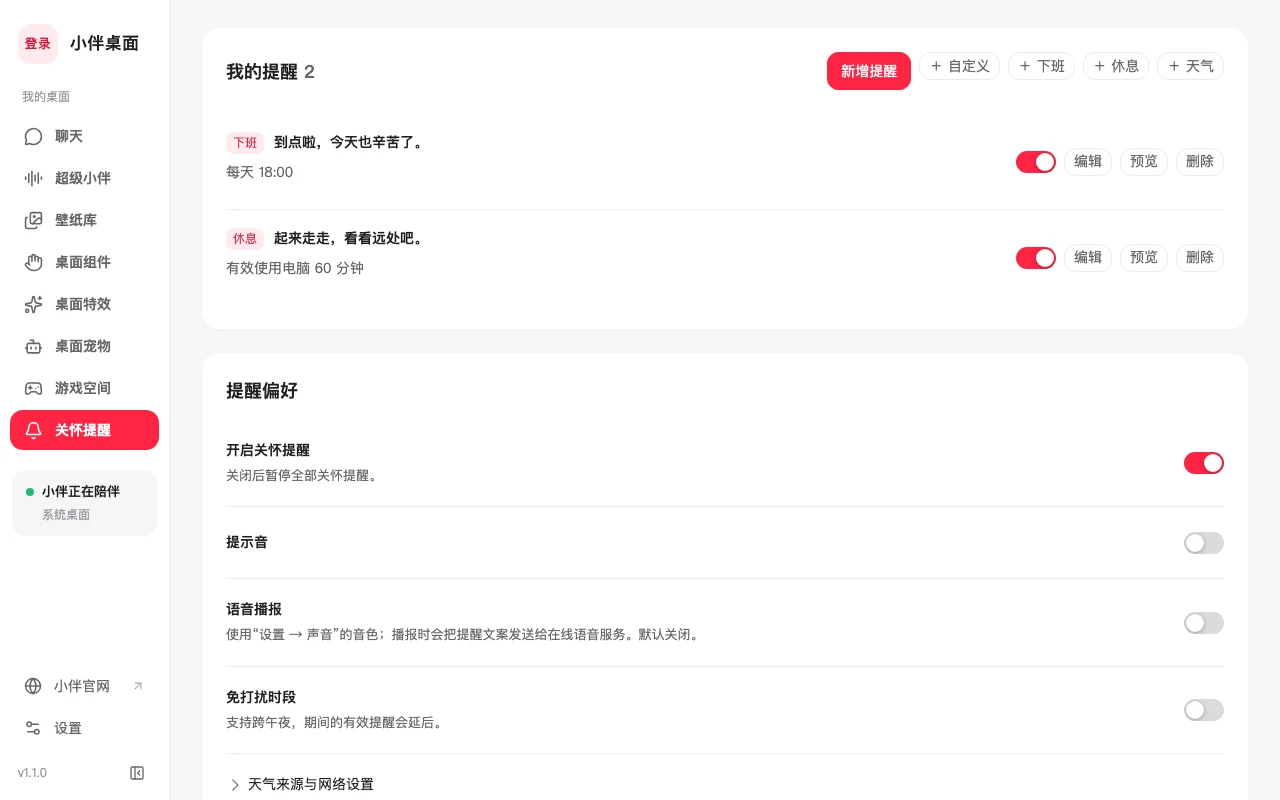
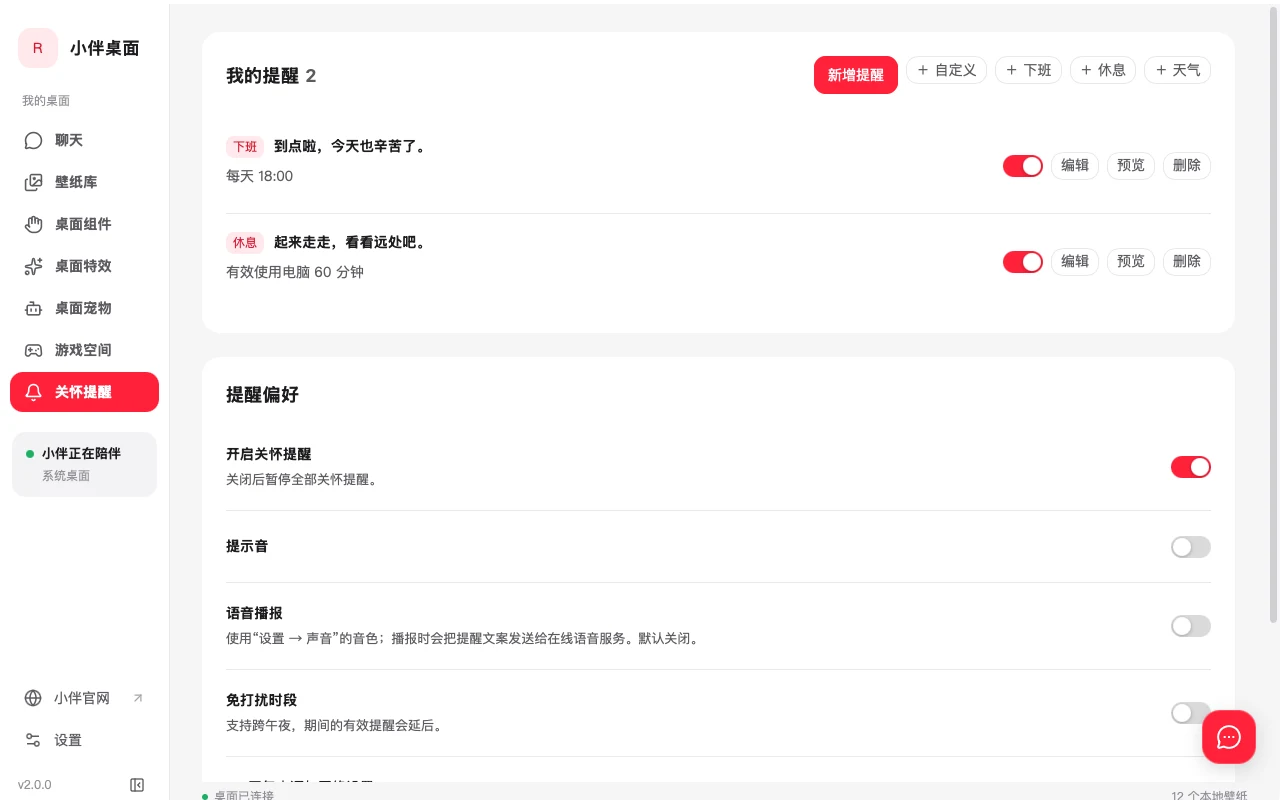
release(desktop): 2.1.0 版本号与官网小伴桌面说明更新
- 小伴桌面版本号升至 2.1.0（package、tauri.conf、Cargo、Cargo.lock 与网页预览默认值）
- 官网十张控制台截图按 2.1.0 界面重拍：桌面伙伴改为主题制、组件与特效新增“官方 / 自定义”分栏、
  小伴 AI 只保留日常与深入两种模式、聊天新增执行过程展开
- 官网与产品介绍文案同步：伙伴主题与七只官方形象、组件层级选择、自定义组件归类、模型模式说明
- 小伴桌面 README 补充 2.1.0 更新内容，发布校验值待出包后补

diff --git a/services/server-xiangban-wallpaper/web/src/views/DesktopView.vue b/services/server-xiangban-wallpaper/web/src/views/DesktopView.vue
@@ -10,21 +10,21 @@ const moreCards = [
     eyebrow: "关怀提醒",
     title: "该下班了，该吃药了",
     body: "下班、休息、天气与自定义提醒，小伴用气泡轻轻告诉你。可以稍后十分钟再说，有免打扰时段，开着游戏时会自动延后。",
-    alt: "小伴桌面的关怀提醒页：下班提醒、休息提醒与提醒偏好开关",
+    alt: "小伴桌面的关怀提醒页：下班与休息两条提醒、提醒偏好开关，以及下班、休息、天气与自定义几个快捷入口",
   },
   {
     src: "/desktop/games.webp",
     eyebrow: "游戏空间",
     title: "累了，玩一会儿",
     body: "俄罗斯方块、2048、消失高手、奶茶大师、小伴贪吃蛇、水墨剑客、暮色滑翔，七款小游戏离线可玩，水墨剑客会记住进度。也能让小伴按想法创作一款。",
-    alt: "小伴桌面的游戏空间页：七款本地游戏卡片，标注竖屏、横屏与离线可玩",
+    alt: "小伴桌面的游戏空间页：七款本地游戏卡片，标注竖屏、横屏，水墨剑客标明进度保存在本机",
   },
   {
     src: "/desktop/models.webp",
     eyebrow: "模型选择",
     title: "小伴 AI，或你熟悉的模型",
-    body: "登录后直接用上小伴 AI，额度和兑换在应用内查看。也可以接入 DeepSeek、智谱、Kimi、MiniMax 预设或任意兼容端点，密钥只保存在你的电脑上。",
-    alt: "小伴桌面的 AI 模型设置：小伴 AI、DeepSeek、智谱、Kimi、MiniMax 及添加自定义供应商",
+    body: "登录后直接用上小伴 AI，日常和深入两种模式随时切换，额度和兑换在应用内查看。也可以接入 DeepSeek、智谱、Kimi、MiniMax 预设或任意兼容端点，密钥只保存在你的电脑上。",
+    alt: "小伴桌面的 AI 模型设置：当前生效的小伴 AI（日常模式）、DeepSeek、智谱、Kimi、MiniMax、免费模型与添加自定义供应商",
   },
 ];
 const defaultIntroduction =
@@ -140,7 +140,7 @@ onActivated(() => {
         <p>正在看网页，还是埋头写东西？按下快捷键，或点一下屏幕边缘的悬浮球，轻巧的对话框就出来了。打字、说话都可以，对话记录留在这里，需要长聊时再进入完整聊天。</p>
       </div>
       <img class="shot" src="/desktop/assistant.webp" width="1280" height="800" loading="lazy" decoding="async"
-        alt="小伴桌面的超级小伴设置：Alt+Space 呼出、屏幕边缘悬浮球、语音提问与回答朗读偏好" />
+        alt="小伴桌面的超级小伴设置：启用开关与 Alt+Space 快捷键、悬浮球与呼出方式、语音提问和回答朗读偏好、截图权限" />
       <ul class="live-points">
         <li><Icon name="sparkles" :size="22" /><div><strong>快捷键，或点一下</strong><span>默认 Alt+Space；悬浮球常驻屏幕边缘，点开即用，按住还能拖到顺手的位置</span></div></li>
         <li><Icon name="play" :size="22" /><div><strong>想到什么，直接说</strong><span>语音在本机转成文字，回答按你的偏好朗读；语音还没准备好时照常打字</span></div></li>
@@ -153,12 +153,12 @@ onActivated(() => {
           <span class="eyebrow">对话创作</span>
           <h2>说一句话，桌面就变了</h2>
           <p>
-            不只挑现成的，也能做你想要的。说一句“做一个春日风筝特效，放到桌面”，小伴会写好特效、保存并应用；动画壁纸、HTML 小组件和小游戏也能按你的想法创作。想换氛围、记一个日子，直接告诉它。
+            不只挑现成的，也能做你想要的。说一句“给我做个番茄时钟，置顶”，小伴会写好组件、放到桌面上并设成始终可见；动画壁纸、桌面特效和小游戏也能按你的想法创作。回答下方可以展开执行过程，看清它做了什么。
           </p>
           <ul class="ticks">
             <li>查网页、整理文件、运行命令，也能帮你处理日常任务</li>
             <li>支持任务规划、长期记忆与技能；默认权限下，写文件和运行命令前先确认</li>
-            <li>作品可以导入、导出资源包，也能分享到论坛</li>
+            <li>粘贴图片或文件一起问；作品可以导入、导出资源包，也能分享到论坛</li>
           </ul>
           <RouterLink to="/guide" class="guide-action-link">
             <span>查看 AI 玩法指南与示例咒语 →</span>
@@ -171,7 +171,7 @@ onActivated(() => {
           height="800"
           loading="lazy"
           decoding="async"
-          alt="小伴桌面的聊天页：用户让小伴制作春日风筝桌面特效，小伴创建特效并切换到桌面，列出彩鸢、樱花花瓣、暖阳柔光等六层效果"
+          alt="小伴桌面的聊天页：用户让小伴制作一个置顶的番茄时钟组件，小伴列出三种工作法、环形倒计时与统计，并显示可展开的执行过程"
         />
       </article>
       <article class="showcase-row reverse">
@@ -192,7 +192,7 @@ onActivated(() => {
           height="800"
           loading="lazy"
           decoding="async"
-          alt="小伴桌面的 AI 玩法指南弹窗：现场造挂件、下班倒计时便签、暗黑星轨 Canvas 壁纸、春日微风落樱特效等示例与一键尝试按钮"
+          alt="小伴桌面的 AI 玩法指南弹窗：暗黑星轨 Canvas 壁纸、自创单文件组件、春日微风落樱特效、自创离线小游戏等示例与一键尝试按钮"
         />
       </article>
       <article class="showcase-row reverse">
@@ -210,7 +210,7 @@ onActivated(() => {
           height="800"
           loading="lazy"
           decoding="async"
-          alt="小伴桌面的壁纸库：使用原生壁纸的入口，以及桌面小星球、一池心灯、暮海、极光之夜等动态壁纸和图片壁纸"
+          alt="小伴桌面的壁纸库：使用原生壁纸的入口，以及桌面小星球、浮光、一池心灯、暮海、极光之夜等十二个本地动态壁纸，右侧是所选壁纸的预览与设置面板"
         />
       </article>
       <article class="showcase-row">
@@ -233,10 +233,10 @@ onActivated(() => {
       </article>
       <article class="showcase-row reverse">
         <div class="showcase-copy">
-          <span class="eyebrow">小伴桌宠</span>
+          <span class="eyebrow">桌面伙伴</span>
           <h2>会回应你的桌面小伙伴</h2>
           <p>
-            一盆会回应你的小植物，安静待在桌面一角。它会望向鼠标，用表情回应点击，久不理它也会犯困、睡着。绿叶或白色小雏菊，选一株喜欢的；可以悬浮陪在身边，也能融进壁纸里。
+            一盆会回应你的小植物，安静待在桌面一角。它会望向鼠标，用表情回应点击，久不理它也会犯困、睡着。花朵心语与多肉点点两款官方主题共七只，也可以创作或导入自己的伙伴形象；每一只单独调整名字、大小、心情和层级，悬浮陪着或安静融进壁纸。
           </p>
         </div>
         <img
@@ -246,7 +246,7 @@ onActivated(() => {
           height="800"
           loading="lazy"
           decoding="async"
-          alt="小伴桌面的桌面宠物页：表情盆栽互动预览，绿叶与白色小雏菊两种植物外观，以及浮动桌宠和融入壁纸两种陪伴方式"
+          alt="小伴桌面的桌面宠物页：花朵心语主题的绿叶小伴、小雏菊、向日葵与郁金香，每只都可以添加到桌面"
         />
       </article>
       <article class="showcase-row">
@@ -254,7 +254,7 @@ onActivated(() => {
           <span class="eyebrow">桌面小组件</span>
           <h2>壁纸是风景，小组件是日子</h2>
           <p>
-            时钟、天气、待办事项、今日日程、股票行情、电子木鱼、月历与纪念日，八种常用小物件，一抬眼就能看见。可以放多个、随意缩放，支持多显示器与“始终置顶”；按住顶部拖动，点“…”就能调整它的内容和外观，也能让小伴现写一个专属小组件。
+            时钟、天气、待办事项、今日日程、股票行情、电子木鱼、月历与纪念日，八种常用小物件，一抬眼就能看见。可以放多个、随意缩放，支持多显示器；每件都能选“贴在桌面”或“始终置顶”，按住顶部拖动，点“…”调整内容和外观。也能让小伴现写一个专属小组件，放在自定义组件里。
           </p>
         </div>
         <img
@@ -264,7 +264,7 @@ onActivated(() => {
           height="800"
           loading="lazy"
           decoding="async"
-          alt="小伴桌面的桌面组件库：桌面时钟、城市天气、待办事项、今日日程、股票行情、电子木鱼、月历与纪念日"
+          alt="小伴桌面的桌面组件库：官方组件页里的桌面时钟、城市天气、待办事项、今日日程、股票行情、电子木鱼，以及自定义组件分类"
         />
       </article>
       <div class="more">

diff --git a/client/xiaoban-desktop-wallpaper/src/ui/control-store.ts b/client/xiaoban-desktop-wallpaper/src/ui/control-store.ts
@@ -40,7 +40,7 @@ export function createControlStore(notify: ControlStore["notify"]): ControlStore
   let effectsQueue = Promise.resolve();
   const store: ControlStore = reactive({
     settings: clone(defaults),
-    info: { name: "小伴桌面", version: "2.0.0", platform: "preview", arch: "", updateTarget: "", updateUrl: "" },
+    info: { name: "小伴桌面", version: "2.1.0", platform: "preview", arch: "", updateTarget: "", updateUrl: "" },
     library: { items: [], source: "", activeId: "companion" },
     website: { announcements: [], update: null, dismissed: {}, errors: [] },
     startup: { available: false, error: null },

diff --git a/services/server-xiangban-wallpaper/README.md b/services/server-xiangban-wallpaper/README.md
@@ -13,7 +13,7 @@
 
 正式域名 `wallpaper.xiangban.xyz`。网站首页 `/` 展示小伴桌面介绍、分平台下载与公告，左侧猫脸品牌“小伴桌面”链接到首页；图片 `/images`、视频 `/videos` 保留独立导航。旧 `/desktop` 地址重定向到首页，旧图片分类 `/c/:id` 作为 `/images/c/:id` 的别名保留。后台 `/admin/apps` 支持 Windows/macOS/Android 安装包上传（EXE/MSI/DMG/PKG/APK/ZIP）、版本上架 / 下架和更新说明，官网与升级检测同步生效；`/admin/desktop` 配置官网介绍、网站源站和公告有效时间。站内包自动计算大小和 SHA-256，单包最多 512 MiB，草稿不公开，保存在独立的持久目录 `app-packages/`。
 
-首页在首屏演示之后依次介绍动态视频壁纸（macOS 实机录屏动图）、超级小伴、对话创作、玩法指南、壁纸库、桌面特效、小伴桌宠和桌面组件，再用三张卡片带过关怀提醒、游戏空间与模型选择，文案见[产品介绍](../../docs/product/小伴桌面_产品介绍.md)。素材在 `web/public/desktop/`：`live-desktop.webp`（1280×720、15 帧/秒、约 6 MB 的动图，偏好减少动态效果时改用静帧 `live-desktop-still.webp`）和九张 1280×800 的浅色控制台截图（assistant、chat、chatguide、wallpapers、effects、companion、widgets、care、games、models，其中 widgets 由 1920×1200 原图压缩）。图片均为 WebP，不进 PWA 预缓存，但会随 `web/dist` 编入服务端程序。
+首页在首屏演示之后依次介绍动态视频壁纸（macOS 实机录屏动图）、超级小伴、对话创作、玩法指南、壁纸库、桌面特效、桌面伙伴和桌面组件，再用三张卡片带过关怀提醒、游戏空间与模型选择，文案见[产品介绍](../../docs/product/小伴桌面_产品介绍.md)。素材在 `web/public/desktop/`：`live-desktop.webp`（1280×720、15 帧/秒、约 6 MB 的动图，偏好减少动态效果时改用静帧 `live-desktop-still.webp`）和十张 1280×800 的浅色控制台截图（assistant、chat、chatguide、wallpapers、effects、companion、widgets、care、games、models，全部按 2.1.0 界面从 macOS 实机窗口截取，裁掉标题栏后转为 WebP）。图片均为 WebP，不进 PWA 预缓存，但会随 `web/dist` 编入服务端程序。
 选中“小伴桌面”栏目时网站平滑切换为浅色，图片 / 视频栏目保持深色。官网的互动小伴与桌面客户端同源：`web/src/companion/` 是从客户端同步过来的角色引擎（`render.ts`、`skins.ts`、`geometry.ts`、`symbols.ts`），默认使用桌面端的盆栽（绿叶）造型，支持视线跟随、点击表情和桌面内拖动；改动客户端角色时需要同步这些文件。Windows 风格演示包含图标、开始菜单、文件夹与任务栏，桌面显示区固定为 16:9 并响应缩放，背景为真实循环视频。视频入库先保存到服务器，缺少封面时截取首帧；运行环境需安装 FFmpeg（或配置 `FFMPEG_BIN`），本机开发工具安装见[桌面 API](docs/desktop-api.md)。
 
 **相伴账号。** 网站顶栏右侧有「登录 / 注册」，邮箱验证码登录，新邮箱自动注册；浏览器直接调用账号中心（`/api/v1/auth/config` 返回的 `issuer`，应用 ID `xiangban-wallpaper-web`），令牌存 `localStorage`，过期前用刷新令牌换新，「我的」页可退出。服务端用 JWKS 离线验签（`src/auth.rs`），收藏按 `uid` 隔离，未登录时仍是访客收藏。账号中心的 `ACCOUNT_CORS_ORIGINS` 必须包含本站域名。

diff --git a/docs/product/小伴桌面_产品介绍.md b/docs/product/小伴桌面_产品介绍.md
@@ -20,7 +20,7 @@
 
 ![聊天](../../services/server-xiangban-wallpaper/web/public/desktop/chat.webp)
 
-内置通用桌面 Agent。对小伴说“帮我制作一个春日风筝特效，做完设置到桌面”，它会自己写出特效包、保存并切换，几十秒后桌面上就飘起了风筝。
+内置通用桌面 Agent。对小伴说“给我做个番茄时钟，置顶”，它会自己写好组件、保存到自定义组件、放到桌面并设为始终可见，回答下方还能展开执行过程。换壁纸、做特效、摆组件、设提醒也一样。
 
 - 能控制小伴桌面本身：换壁纸、开关特效、创作新特效、摆放组件、换外壳与表情、增删提醒、打开游戏。
 - 也能帮你办事：在工作目录里读写文件、搜索、运行命令、查网页、做任务清单，并记住你的偏好。
@@ -43,13 +43,13 @@
 
 ![桌面宠物](../../services/server-xiangban-wallpaper/web/public/desktop/companion.webp)
 
-小伴会望向你的鼠标，点一下换个表情，拖一拖换个位置，久不理它会犯困、睡着。绿叶与白色小雏菊两种植物外观，可以悬浮桌面，也能安静融入壁纸。
+小伴会望向你的鼠标，点一下换个表情，久不理它会犯困、睡着。官方主题「花朵心语」与「多肉点点」共七只，也支持创作或导入自己的伙伴形象；每一只独立取名、调整大小与心情，可以悬浮桌面，也能安静融入壁纸。
 
 ### 5. 桌面小组件
 
 ![桌面组件](../../services/server-xiangban-wallpaper/web/public/desktop/widgets.webp)
 
-时钟、天气、待办事项、今日日程、股票行情、电子木鱼、月历与纪念日，八种常用小物件。可以放多个、自由缩放，支持多显示器和始终置顶；按住顶部拖动，点“…”调整内容和外观，也能让小伴现写一个专属小组件。
+时钟、天气、待办事项、今日日程、股票行情、电子木鱼、月历与纪念日，八种常用小物件。可以放多个、自由缩放，支持多显示器；每件可选“贴在桌面”或“始终置顶”，按住顶部拖动，点“…”调整内容和外观。自定义组件单独归类，也能让小伴现写一个。
 
 ### 6. 关怀提醒
 
@@ -67,7 +67,7 @@
 
 ![模型配置](../../services/server-xiangban-wallpaper/web/public/desktop/models.webp)
 
-登录后可直接使用小伴 AI，额度和兑换在应用内查看。也可以接入 DeepSeek、智谱、Kimi、MiniMax 预设或任意兼容端点，密钥只保存在你自己的电脑上。
+登录后可直接使用小伴 AI，日常与深入两种模式随任务切换，额度和兑换在应用内查看。也可以接入 DeepSeek、智谱、Kimi、MiniMax 预设或任意兼容端点，密钥只保存在你自己的电脑上。
 
 ## 小而安心
 

diff --git a/README.md b/README.md
@@ -7,7 +7,7 @@
 | 项目 | 状态 | 说明 |
 | --- | --- | --- |
 | [client/xiaban-web](client/xiaban-web/README.md) | 已实现 | 相伴网页/PWA，包含管理后台 |
-| [client/xiaoban-desktop-wallpaper](client/xiaoban-desktop-wallpaper/README.md) | 2.0.0 | 小伴壁纸桌面版：Windows/macOS 桌宠、动态壁纸、十二个桌面特效、游戏空间、关怀提醒与通用 Agent 聊天；接入自研 agent-kernel 内核与壁纸网站 |
+| [client/xiaoban-desktop-wallpaper](client/xiaoban-desktop-wallpaper/README.md) | 2.1.0 | 小伴壁纸桌面版：Windows/macOS 桌宠、动态壁纸、十二个桌面特效、游戏空间、关怀提醒与通用 Agent 聊天；接入自研 agent-kernel 内核与壁纸网站 |
 | [client/xiaoban-pot-garden](client/xiaoban-pot-garden/README.md) | 可运行原型 | 表情盆栽的 3D 质感原型（Vite + three.js），花盆养成游戏的起点，目前只有表情和质感，没有玩法 |
 | [client/xiaoban-mobile-wallpaper](client/xiaoban-mobile-wallpaper/README.md) | 1.0.0 | 小伴壁纸 Android 版：浏览与下载壁纸网站的图片和视频，Compose 瀑布流，可登录统一账号，收藏只存本机；release 只打 arm64-v8a |
 | [client/xiaoban-multiplatform](client/xiaoban-multiplatform/README.md) | 可运行原型 | 把 xiaban.xyz 套进原生壳：Android/iOS 用 KMP + Compose，桌面用 Rust + Tauri（`desktopApp/`）；Android 与 macOS 已运行验证，iOS 仅编译 |
